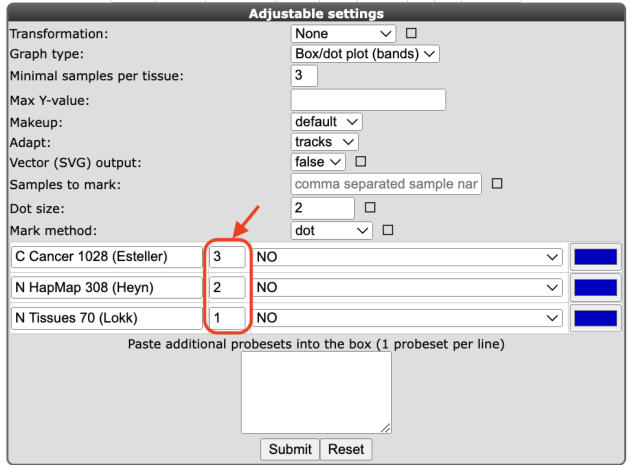
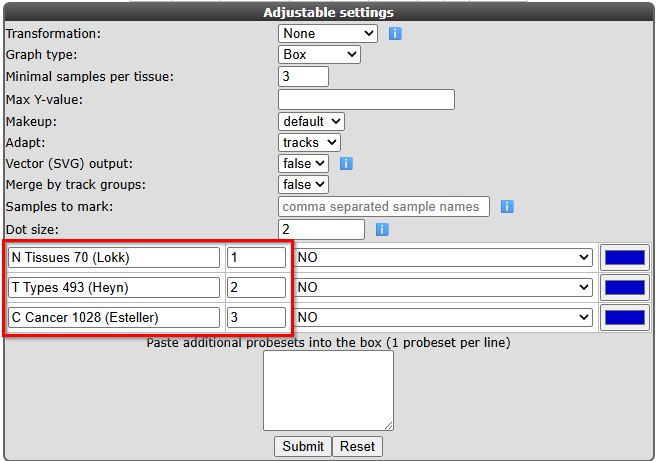
megasampler

Changed region(s): [[0.0, 0.0, 1.0, 1.0], [0.6614, 0.1822, 0.7215, 0.243]]

diff --git a/docs/Methylation_analysis.md b/docs/Methylation_analysis.md
@@ -186,7 +186,7 @@ Using this message box annotation, three promoter-associated CpGs of the differe
 ## Comparing Methylation Heatmaps
 
 To gain a clearer understanding of how to interpret this Heatmap, two further methylation datasets will be compared with the "Esteller" dataset. As mentioned earlier in *Section 2 Generating a Heatmap* of this manual, this "Esteller" dataset is based on highly proliferating cancer cell lines. The second dataset is based on primary tumors snd the third dataset is based on normal control tissue samples.  
-In this section, three Heatmaps generated from these three datasets are to be compared to show the difference in methylation tendency for a chosen gene of interest. These comparative methylome heatmaps were used to study another tumor suppressor ZAR1. [5]
+In this section, three Heatmaps generated from these three datasets are to be compared to show the difference in methylation tendency for a chosen gene of interest. Below e use again CLDN10 for these comparative methylome heatmaps, but you could also look into another gene, such as the tumor suppressor ZAR1 [5].
 
 To create the second (author "Heyn", category "tumor") and the third (author "Lokk", category "normal") heatmaps, repeat the steps from 1) to 5) in *Section 2 Generating Heatmap* of this manual. The following Figure 3-1 is a collection of generated heatmaps of the three datasets ("Esteller" on the bottom, "Heyn" in the middle, "Lokk" on the top). As shown with colors in Figure 3-1, the "Lokk" Heatmap of CLDN10 is rather uniform with a CLDN10 CGI (or CpG-Island) that is unmethylated, whereas the CGI surrounding regions are methylated (for all samples).
 
@@ -272,7 +272,7 @@ Figure 4-5 is a categorized Heatmap by cell type. This Figure is the same as the
 
 ## Multiple datasets overview with methylation data: 
 
-With the megasampler module you can investigate the expression levels of a gene in the large collection of datasets R2 is hosting. For this course  we look at the β-value (ratios) of the methylation sets R2 is hosting. One restriction should be noticed, only dataset with the same platform can be inspected together. In case you select the 450k type (Illumina) platform you can only select dataset of the same platform. 
+With the megasampler module you can investigate the expression levels of a gene in the large collection of datasets R2 is hosting. For this course  we look at the β-value (ratios) of the methylation sets R2 is hosting. One restriction should be noticed, only datasets with the same platform can be inspected together. In case you select the 450k type (Illumina) platform you can only select datasets of the same platform. 
 
 The user could also compare the methylation level of the same reporter (probe) from multiple datasets. In this section, the same three datasets as *Section 3 Comparing Methylation Heatmaps* are used ("Lokk": normal cells, "Heyn": tumor cells, "Esteller": cancer cells). The user takes the following steps to create the scatter plots of the same probe methylation dataset:
 
@@ -301,7 +301,7 @@ The user could also compare the methylation level of the same reporter (probe) f
 
 
 
-**8)** In the grid box, type the author name "Lokk" (normal cells) on Column {Author} and select the datasets by clicking "Select". Repeat the same steps for the datasets with the author names "Heyn" (tumor cells) and "Esteller" (cancer cells) respectively. Click "Confirm selection" button to proceed (as shown in Figure 5-4).
+**8)** In the grid box, type the author name "Lokk" (normal cells) on Column {Author} and select the datasets by checking the checkbox in front. Repeat the same steps for the datasets with the author names "Heyn" (tumor cells) and "Esteller" (cancer cells) respectively. Only now that you have checked the boxes of all three datasets, click the "Confirm selection" button to proceed (as shown in Figure 5-4).
 
 ![](_static/images/Methylation/fig5-4.jpg)
 [**Figure 5-4: Data selection menu**](_static/images/Methylation/fig5-4.jpg)
@@ -316,20 +316,17 @@ The user could also compare the methylation level of the same reporter (probe) f
 
 
 
-**10)** Choose one probe ("cg25032595" and "cg16556145" respectively) from the CGI (CpG Island) observed in yellow in the three Heatmaps produced from *Section 3 Comparing Methylation Heatmaps*. As shown in Figure 5-6, the two probes are found in the "Esteller" heatmap as "cg25032595" is marked in blue and ""cg16556145" is marked in red.
+**10)** Look at the three Heatmaps produced from *Section 3 Comparing Methylation Heatmaps* to find a probe name from the CGI (CpG Island) observed in yellow, e.g."cg16556145" or "cg25032595". In Figure 5-6, the two probes "cg25032595" and "cg16556145" are marked in red in the "Esteller" dataset.
 
 ![](_static/images/Methylation/fig5-61.png)
 [**Figure 5-6: Probe location in the "Esteller" Heatmap**](_static/images/Methylation/fig5-61.png)
 
-
-
-
-Select the first probe "cg25032595" as shown on the right in Figure 5-7. On "Adjustable settings" in Figure 5-8, the user could change the dataset order out of all selected datasets. Change the order the datasets: "Lokk" as "1", "Heyn" as "2" and "Esteller" as "3" (in Figure 5-8). This setting lets datasets be compared: "Lokk" as the first dataset, "Heyn" as the second dataset and "Esteller" as the third order. Click "Submit" button to proceed. Repeat the same process for the second probe "cg16556145" as shown on the right in Table 5-7.
+In the probe table of the Megasampler select that probe, e.g. "cg16556145" or "cg25032595" as shown on the left and right side in Figure 5-7 respectively. In "Adjustable settings" in Figure 5-8, the user could change the order of the selected datasets. Change the order as follows, if they aren't in the right order yet: "Lokk" as "1", "Heyn" as "2" and "Esteller" as "3" (in Figure 5-8). This setting lets datasets be compared: "Lokk" as the first dataset, "Heyn" as the second dataset and "Esteller" as the third order. Click "Submit" button to proceed. Repeat the same process for the second probe "cg16556145" as shown on the right in Table 5-7.
 
 
 ![](_static/images/Methylation/fig5-7c.png)
 
-[**Figure 5-7: Selected probe (”cg25032595” on the left, “cg16556145” on the right)**](_static/images/Methylation/fig5-7c.png)
+[**Figure 5-7: Selected probe (“cg16556145” on the left, ”cg25032595” on the right)**](_static/images/Methylation/fig5-7c.png)
 
 
 
